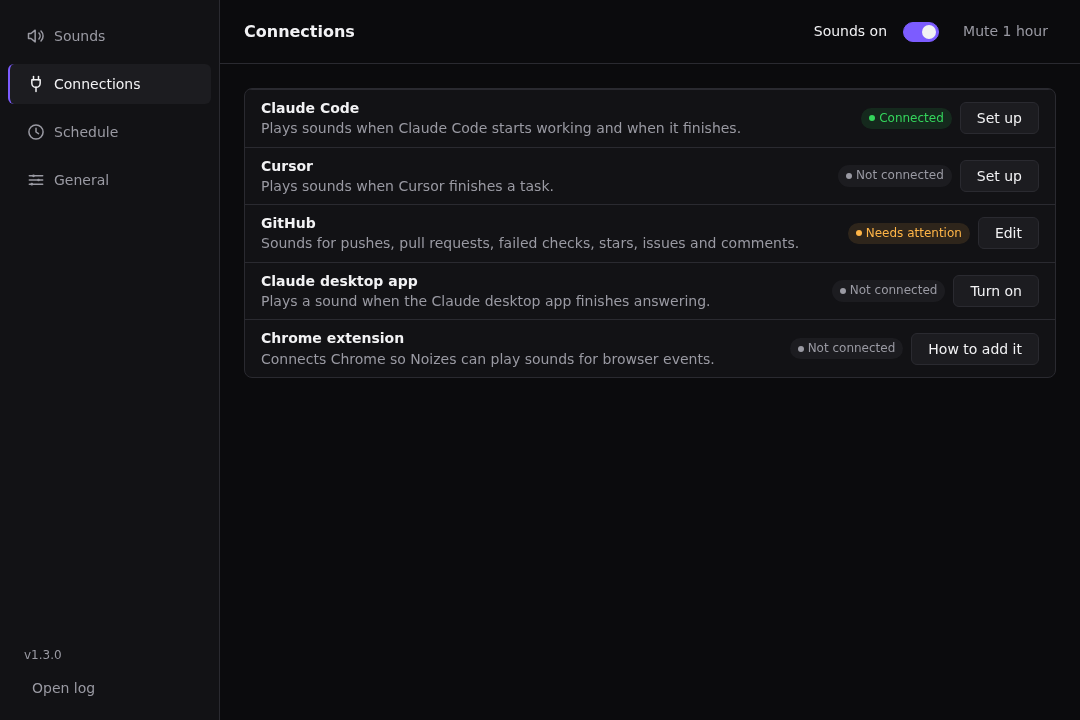
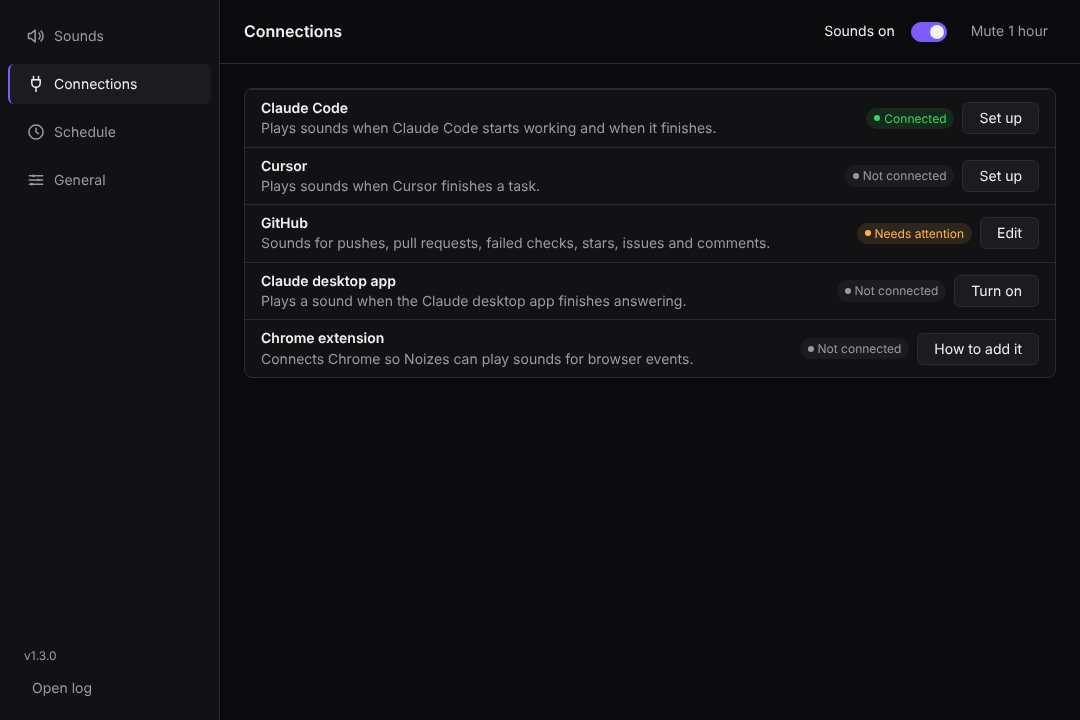
fix(ui): v1.3 review fixes: mute label, accent, group count, page ring
- Mute button label follows the muted state, so it reads Unmute whenever
  a click would unmute (master switch off included). New bridge spec.
- Sounds page: search focus border is muted grey, volume slider is silver,
  and the purple focus ring override is gone so the app-wide silver ring applies.
- Mixed group switch now says "N of M on" next to it, with a silver knob and
  border, so a group with some sounds on never reads as all off.
- The page area no longer shows a focus ring when it takes focus on a page
  switch. That ring was the thin white border around the content area.
- Screenshots regenerated by the suite.

Claude-Session: https://claude.ai/code/session_01M5D2oS9NNFJUrSqmuubiHM

diff --git a/src/Noizes/ui/pages/sounds.js b/src/Noizes/ui/pages/sounds.js
@@ -106,7 +106,7 @@
     '  padding: 10px 12px; font: inherit; font-size: 14px;',
     '}',
     '.snd-search::placeholder { color: var(--muted, #9a9aa3); }',
-    '.snd-search:focus { outline: none; border-color: var(--accent-ink, #9d85ff); }',
+    '.snd-search:focus { outline: none; border-color: var(--muted, #9a9aa3); }',
     '.snd-group {',
     '  background: var(--surface, #121215);',
     '  border: 1px solid var(--line, #2a2a30);',
@@ -118,6 +118,7 @@
     '  flex: 1; margin: 0; font-size: 13px; font-weight: 600;',
     '  color: var(--muted, #9a9aa3); letter-spacing: 0.02em;',
     '}',
+    '.snd-group-count { font-size: 13px; color: var(--muted, #9a9aa3); white-space: nowrap; }',
     '.snd-notconnected { margin: 0; padding: 0 16px 10px; font-size: 13px; color: var(--muted, #9a9aa3); }',
     '.snd-navlink { color: var(--info, #6ab8ff); }',
     '.snd-navlink:hover { text-decoration: underline; }',
@@ -163,12 +164,12 @@
     '}',
     '.snd-switch[aria-checked="true"] { background: var(--accent, #7c5cff); border-color: transparent; }',
     '.snd-switch[aria-checked="true"] .snd-knob { transform: translateX(16px); background: #ffffff; }',
-    '.snd-switch.is-mixed { border-color: var(--line, #2a2a30); }',
-    '.snd-switch.is-mixed .snd-knob { transform: translateX(8px); }',
+    '.snd-switch.is-mixed { border-color: var(--muted, #9a9aa3); }',
+    '.snd-switch.is-mixed .snd-knob { transform: translateX(8px); background: var(--silver, #e8e8ea); }',
     '.snd-detail { flex: 1 1 100%; padding: 4px 0 10px; }',
     '.snd-volrow, .snd-soundrow { display: flex; align-items: center; flex-wrap: wrap; gap: 12px; margin: 8px 0; }',
     '.snd-volrow > label { font-size: 13px; color: var(--muted, #9a9aa3); }',
-    '.snd-range { width: 220px; max-width: 100%; margin: 0; accent-color: var(--accent, #7c5cff); }',
+    '.snd-range { width: 220px; max-width: 100%; margin: 0; accent-color: var(--silver, #e8e8ea); }',
     '.snd-volout { font-size: 13px; color: var(--silver, #e8e8ea); min-width: 44px; }',
     '.snd-filename { flex: 1 1 120px; min-width: 120px; font-size: 13px; color: var(--muted, #9a9aa3); overflow-wrap: anywhere; }',
     '.snd-btn {',
@@ -199,7 +200,6 @@
     '  background: var(--surface-2, #1c1c20); color: var(--fg, #f2f2f4);',
     '  border: 1px solid var(--bad, #ff6f66); border-radius: 6px; font-size: 13px;',
     '}',
-    '.snd-page :focus-visible { outline: 2px solid var(--accent-ink, #9d85ff); outline-offset: 2px; }',
     '@media (prefers-reduced-motion: reduce) {',
     '  .snd-page, .snd-page * { transition: none !important; }',
     '}'
@@ -695,6 +695,11 @@
       if (!allOn && anyOn) {
         sw.classList.add('is-mixed'); // middle state: knob centered
         sw.setAttribute('data-state', 'mixed');
+        // Say it in words too, so some on never reads as all off.
+        var onCount = events.filter(function (ev) { return ev.enabled; }).length;
+        var countText = onCount + ' of ' + events.length + ' on';
+        head.appendChild(el('span', { class: 'snd-group-count', 'data-testid': 'group-count', text: countText }));
+        sw.setAttribute('aria-label', 'Sounds for ' + groupName + ' group, ' + countText);
       }
       sw.setAttribute('data-testid', 'group-switch');
       head.appendChild(sw);

diff --git a/ui-tests/specs/bridge.spec.js b/ui-tests/specs/bridge.spec.js
@@ -56,9 +56,11 @@ test.describe('one-click switching and mute', () => {
     const sw = box.locator('.snd-group-head button[role="switch"]');
     await expect(sw).toHaveAttribute('data-state', 'mixed'); // the middle state
     await expect(sw).toHaveAttribute('aria-checked', 'false'); // switch role stays binary
+    await expect(box.getByTestId('group-count')).toHaveText('2 of 4 on'); // mixed never reads as off
 
     await sw.click();
     await expect(sw).not.toHaveAttribute('data-state', 'mixed'); // back to a plain all-on switch
+    await expect(box.getByTestId('group-count')).toHaveCount(0);
     for (const id of ['browser-claude-done', 'browser-obvious-done', 'browser-watch-done', 'browser-download-done']) {
       await expect(page.locator(`[data-event-id="${id}"] button[role="switch"]`)).toHaveAttribute('aria-checked', 'true');
     }
@@ -91,6 +93,23 @@ test.describe('one-click switching and mute', () => {
     expect(set).toHaveLength(1);
     expect(set[0].payload.muted).toBe(true);
     expect(set[0].payload.minutes).toBe(60);
+  });
+
+  test('with the master switch off, the mute button reads Unmute and unmutes', async ({ page }) => {
+    await open(page);
+    await page.click('#masterSwitchHost [role="switch"]');
+    await expect(page.locator('#masterLabel')).toHaveText('Sounds off');
+    // No timer is running, but the button must still say what its click does.
+    await expect(page.locator('#mutedUntil')).toBeHidden();
+    await expect(page.locator('#muteBtn')).toHaveText('Unmute');
+
+    await page.click('#muteBtn');
+    await expect(page.locator('#masterLabel')).toHaveText('Sounds on');
+    await expect(page.locator('#muteBtn')).toHaveText('Mute 1 hour');
+
+    const set = (await calls(page)).filter(c => c.type === 'setMute');
+    expect(set).toHaveLength(2);
+    expect(set[1].payload.muted).toBe(false);
   });
 
   test('the master switch is present on every page', async ({ page }) => {

diff --git a/ui-tests/specs/layout.spec.js b/ui-tests/specs/layout.spec.js
@@ -105,3 +105,19 @@ test.describe('text rules', () => {
     expect(bad).toEqual([]);
   });
 });
+
+test.describe('content area frame', () => {
+  test('the page area never shows a focus ring, even right after it takes focus', async ({ page }) => {
+    await open(page);
+    for (const name of PAGES) {
+      await gotoPage(page, name);
+      const info = await page.evaluate(() => {
+        const el = document.getElementById('page');
+        const cs = getComputedStyle(el);
+        return { focused: document.activeElement === el, style: cs.outlineStyle, width: cs.outlineWidth };
+      });
+      expect(info.focused).toBe(true); // focus still moves there for screen readers
+      expect(info.style === 'none' || info.width === '0px').toBe(true);
+    }
+  });
+});

diff --git a/src/Noizes/ui/app.js b/src/Noizes/ui/app.js
@@ -180,12 +180,12 @@
     if (mutedForTime) {
       els.mutedUntil.hidden = false;
       els.mutedUntil.textContent = "Muted until " + formatTime(untilMs);
-      els.muteBtn.textContent = "Unmute";
     } else {
       els.mutedUntil.hidden = true;
       els.mutedUntil.textContent = "";
-      els.muteBtn.textContent = "Mute 1 hour";
     }
+    // Label follows the muted state, so it always says what a click will do.
+    els.muteBtn.textContent = muted ? "Unmute" : "Mute 1 hour";
     if (muteRecheckTimer) {
       window.clearTimeout(muteRecheckTimer);
       muteRecheckTimer = 0;

diff --git a/src/Noizes/ui/app.css b/src/Noizes/ui/app.css
@@ -158,6 +158,11 @@ button { cursor: pointer; }
   padding: 24px;
 }
 
+/* The page area takes focus on every page switch (so screen readers land there).
+   It is a container, not a control, so it never shows a focus ring. */
+.nz-page:focus,
+.nz-page:focus-visible { outline: none; }
+
 .nz-page-missing { color: var(--muted); }
 
 .nz-page-error { color: var(--bad); }
